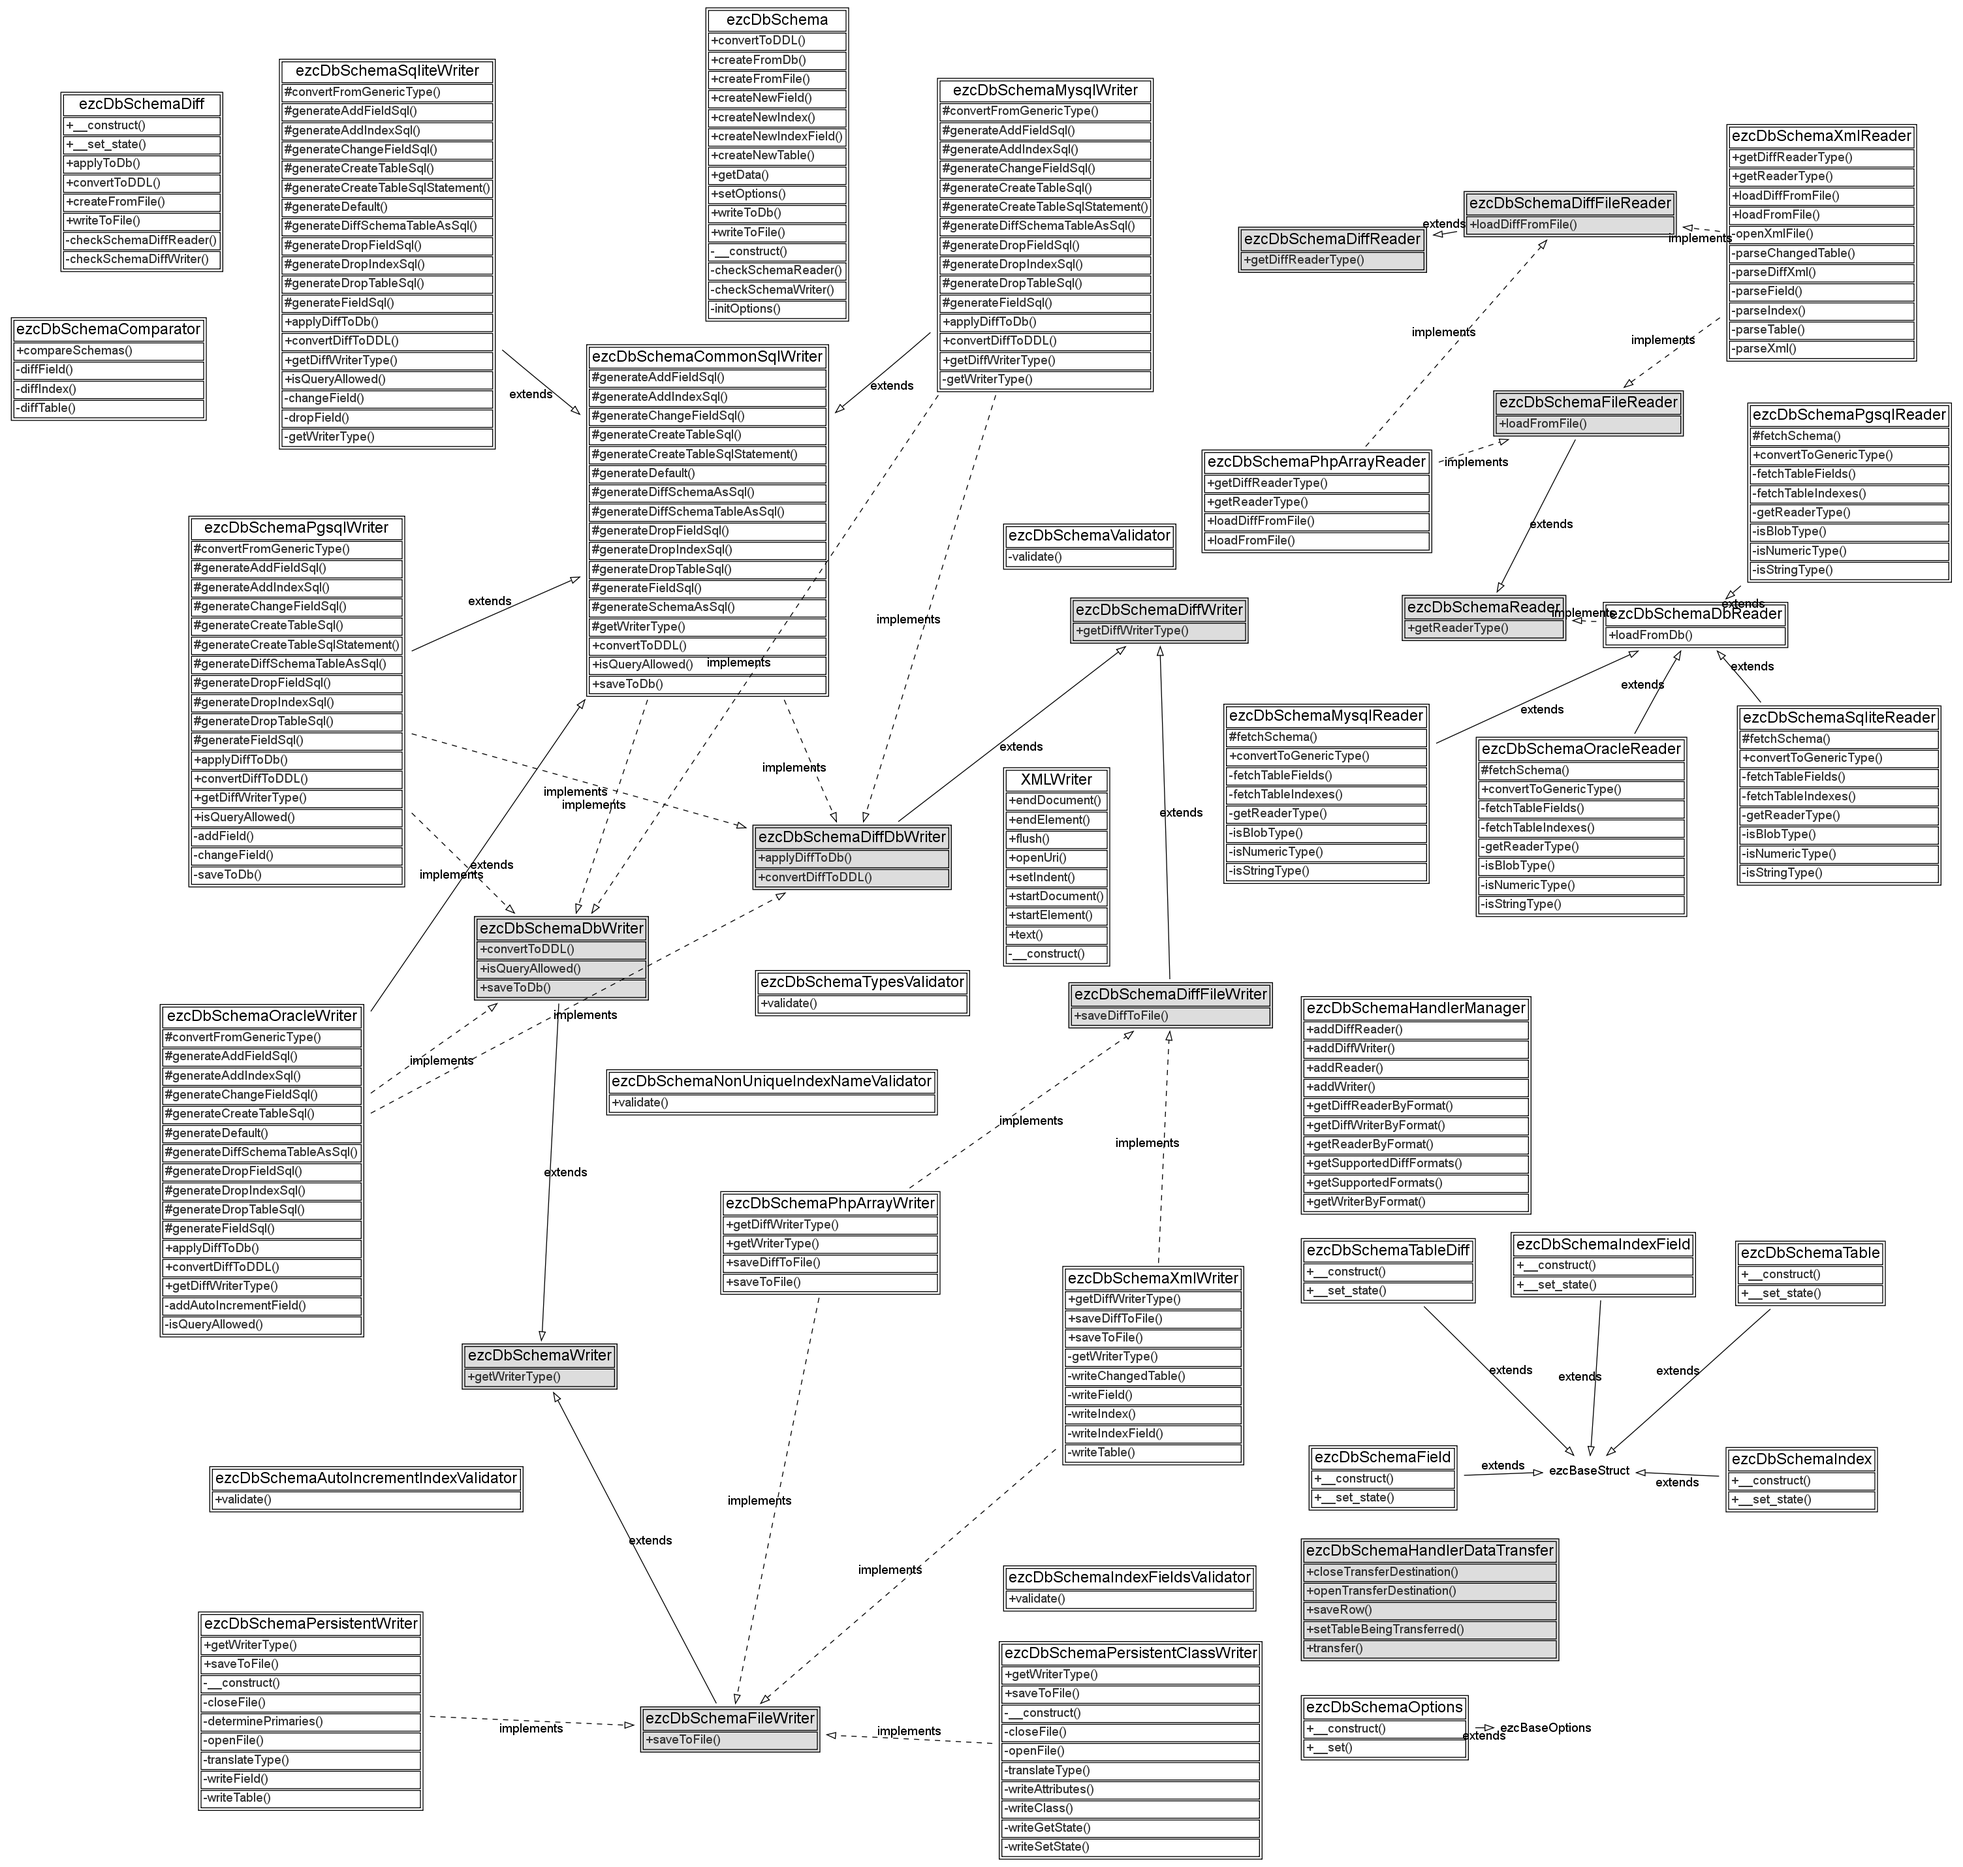
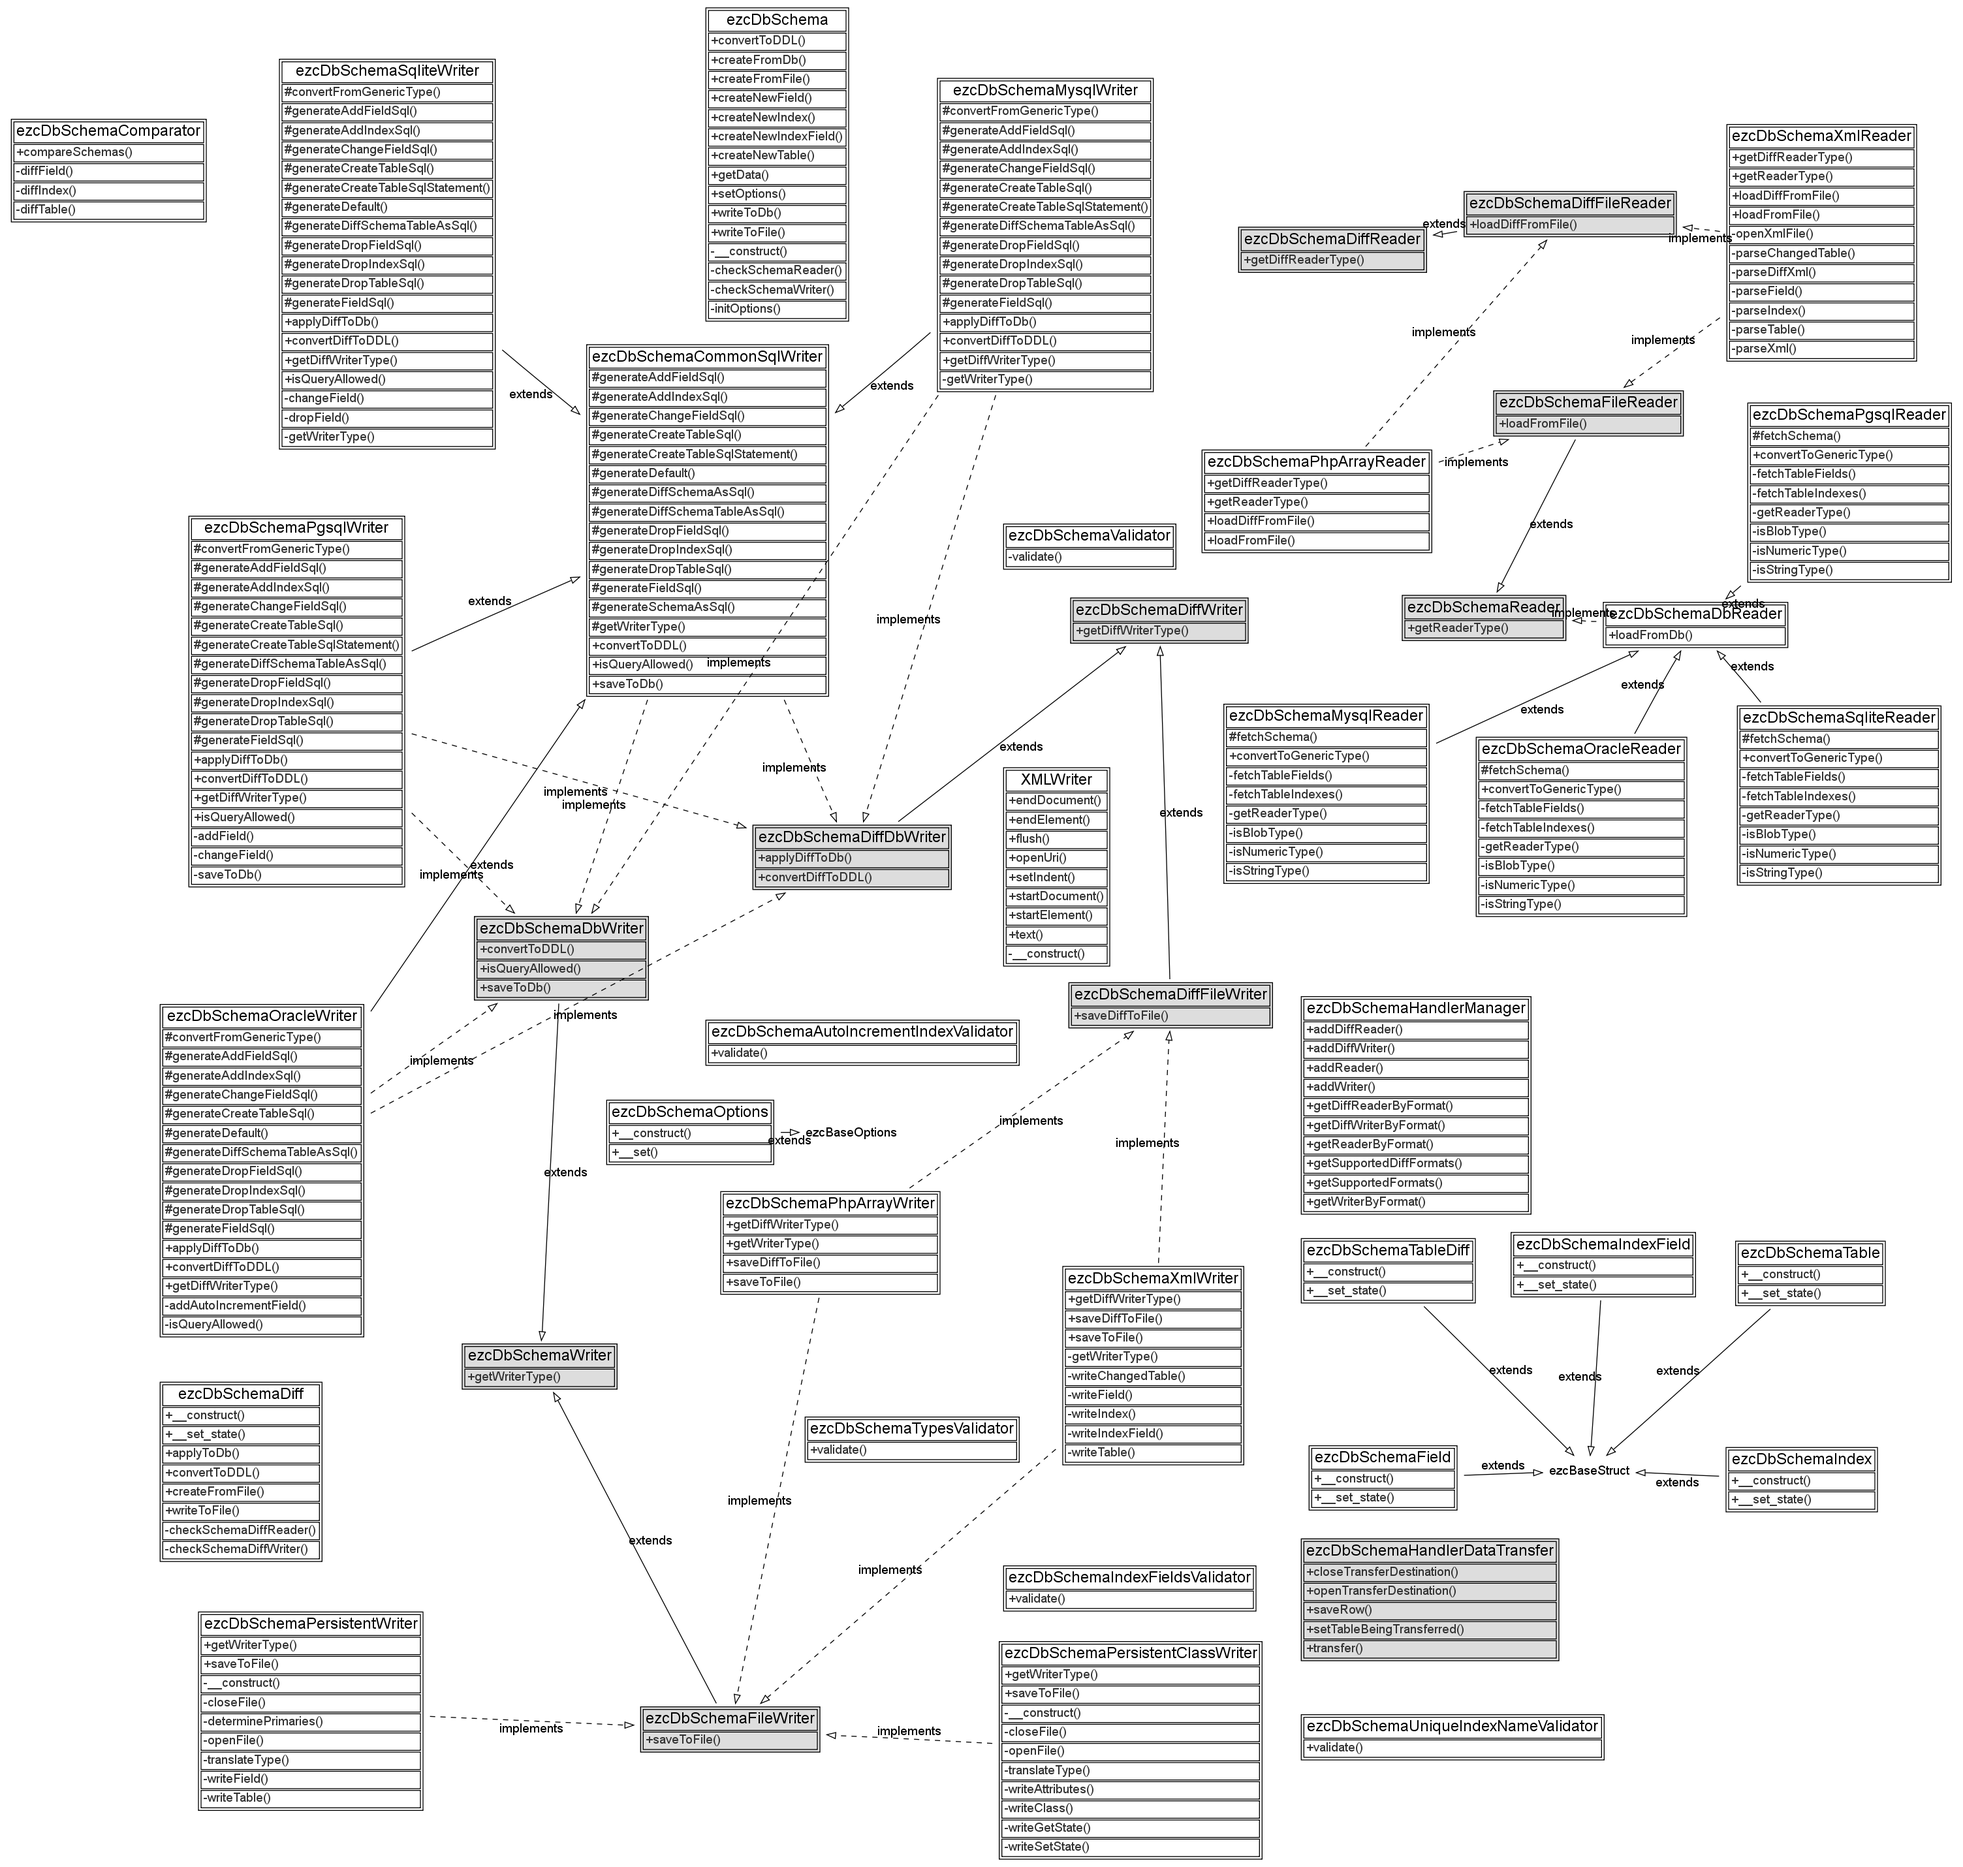
- Changed the class name ezcDbSchemaNonUniqueIndexNameValidator to   ezcDbSchemaUniqueIndexNameValidator.

diff --git a/src/db_schema_autoload.php b/src/db_schema_autoload.php
@@ -45,7 +45,6 @@ return array(
     'ezcDbSchemaIndexFieldsValidator'            => 'DatabaseSchema/validators/index_fields.php',
     'ezcDbSchemaMysqlReader'                     => 'DatabaseSchema/handlers/mysql/reader.php',
     'ezcDbSchemaMysqlWriter'                     => 'DatabaseSchema/handlers/mysql/writer.php',
-    'ezcDbSchemaNonUniqueIndexNameValidator'     => 'DatabaseSchema/validators/non_unique_index_name.php',
     'ezcDbSchemaOptions'                         => 'DatabaseSchema/options/schema.php',
     'ezcDbSchemaOracleReader'                    => 'DatabaseSchema/handlers/oracle/reader.php',
     'ezcDbSchemaOracleWriter'                    => 'DatabaseSchema/handlers/oracle/writer.php',
@@ -60,6 +59,7 @@ return array(
     'ezcDbSchemaTable'                           => 'DatabaseSchema/structs/table.php',
     'ezcDbSchemaTableDiff'                       => 'DatabaseSchema/structs/table_diff.php',
     'ezcDbSchemaTypesValidator'                  => 'DatabaseSchema/validators/types.php',
+    'ezcDbSchemaUniqueIndexNameValidator'        => 'DatabaseSchema/validators/unique_index_name.php',
     'ezcDbSchemaValidator'                       => 'DatabaseSchema/validator.php',
     'ezcDbSchemaXmlReader'                       => 'DatabaseSchema/handlers/xml/reader.php',
     'ezcDbSchemaXmlWriter'                       => 'DatabaseSchema/handlers/xml/writer.php',

diff --git a/src/validators/unique_index_name.php b/src/validators/unique_index_name.php
@@ -1,6 +1,6 @@
 <?php
 /**
- * File containing the ezcDbSchemaNonUniqueIndexNameValidator class.
+ * File containing the ezcDbSchemaUniqueIndexNameValidator class.
  *
  * @package DatabaseSchema
  * @version //autogentag//
@@ -9,13 +9,13 @@
  */
 
 /**
- * ezcDbSchemaNonUniqueIndexNameValidator checks for duplicate index names.
+ * ezcDbSchemaUniqueIndexNameValidator checks for duplicate index names.
  *
  * @todo implement from an interface
  * @package DatabaseSchema
  * @version //autogentag//
  */
-class ezcDbSchemaNonUniqueIndexNameValidator
+class ezcDbSchemaUniqueIndexNameValidator
 {
     /**
      * Validates if all the index names used are unique accross the schema.

diff --git a/src/validator.php b/src/validator.php
@@ -40,7 +40,7 @@ class ezcDbSchemaValidator
         'ezcDbSchemaTypesValidator',
         'ezcDbSchemaIndexFieldsValidator',
         'ezcDbSchemaAutoIncrementIndexValidator',
-        'ezcDbSchemaNonUniqueIndexNameValidator',
+        'ezcDbSchemaUniqueIndexNameValidator',
     );
 
     /**
